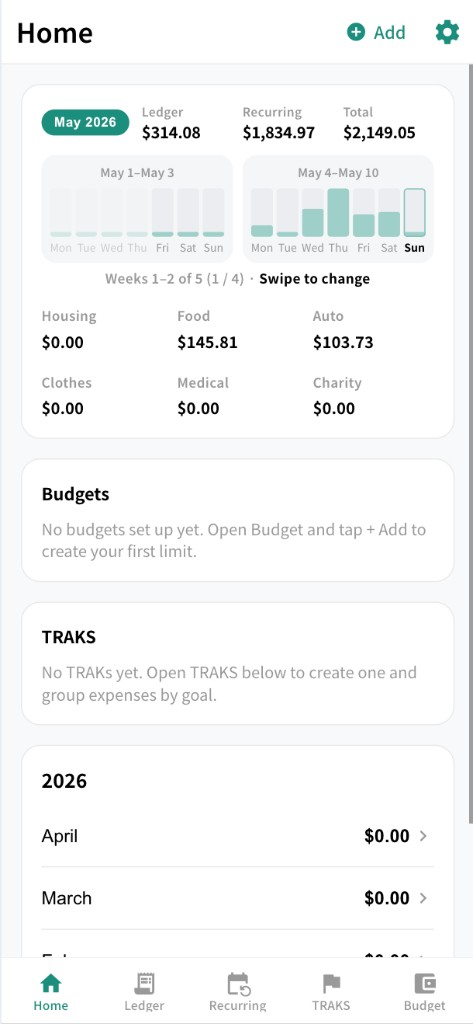
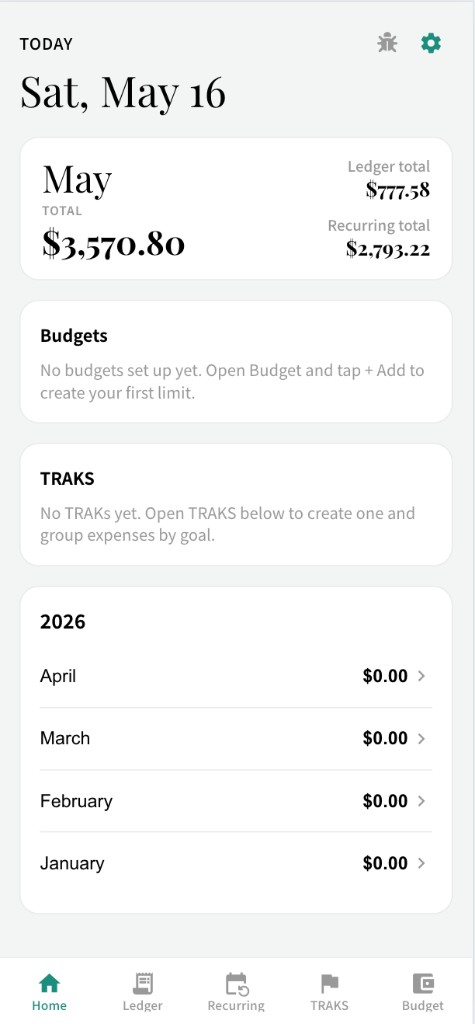
Update hero phone screenshot to current Home screen.
Replace the hero app capture and refresh image dimensions and alt text.

diff --git a/index.html b/index.html
@@ -694,8 +694,8 @@
         <div class="phone__screen">
           <img
             src="assets/hero-app-home.png"
-            alt="Skie mobile app Home screen: May 2026 overview with spending charts, category totals, Budgets and TRAKS cards, yearly list, and tab bar."
-            width="473"
+            alt="Skie mobile app Home screen: Sat May 16 with May total, ledger and recurring breakdown, Budgets and TRAKS cards, 2026 yearly overview, and tab bar."
+            width="475"
             height="1024"
             decoding="async"
           />
